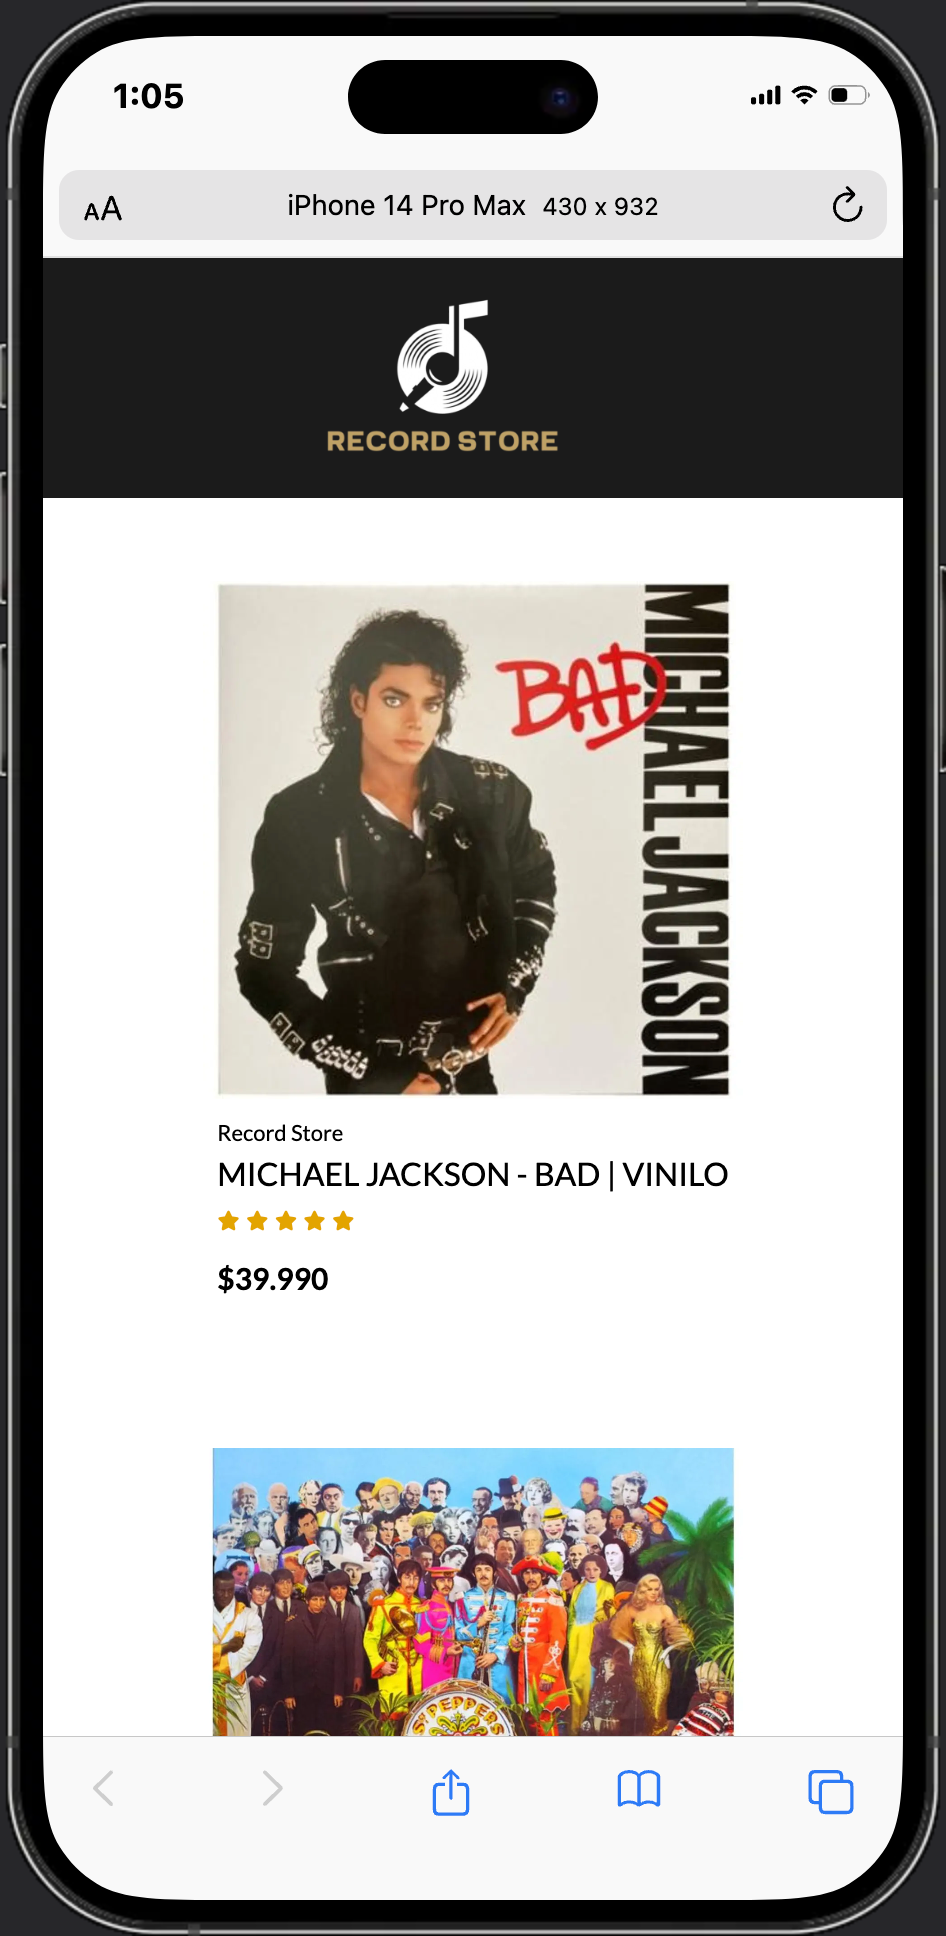
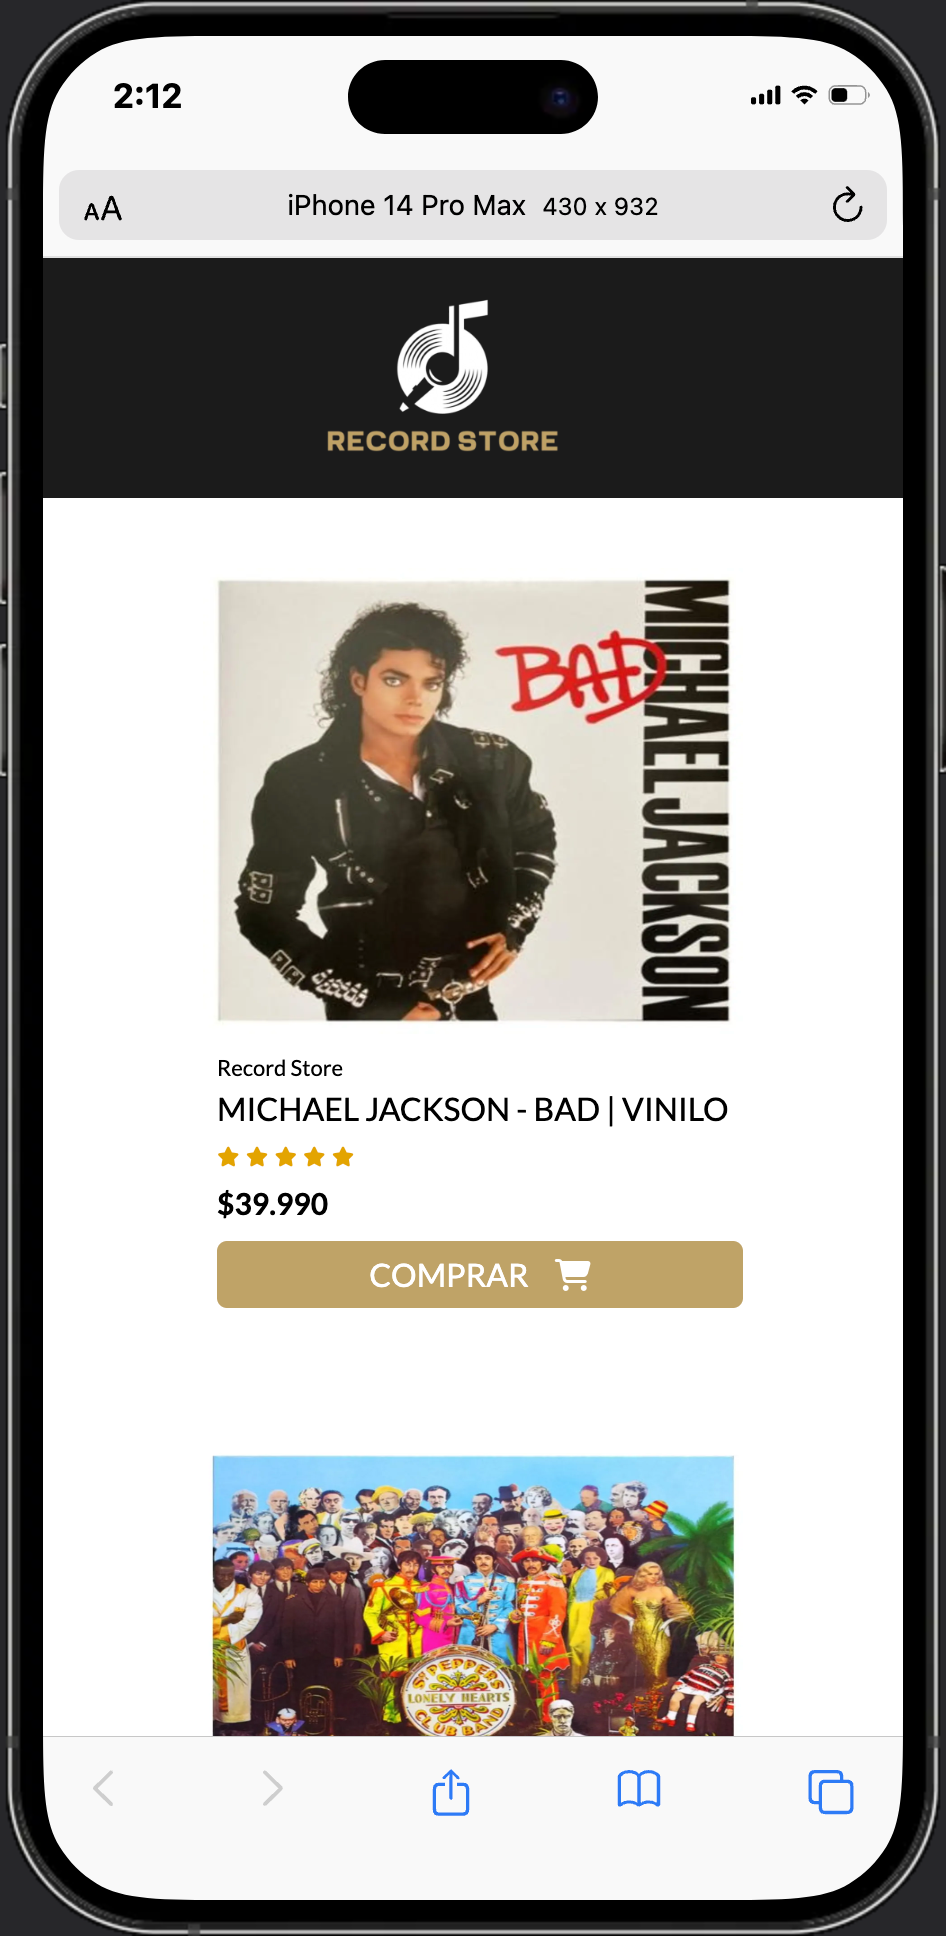
Add buy button

Changed region(s): [[0.2146, 0.2789, 0.797, 0.6818], [0.2146, 0.7438, 0.797, 0.8988], [0.1226, 0.031, 0.1839, 0.062]]

diff --git a/index.html b/index.html
@@ -74,6 +74,7 @@
                     <i class="fa-solid fa-star fa-2xs"></i>
                 </div>
                 <p>$39.990</p>
+                <a class="buy" href="#">Comprar <i class="fa-solid fa-cart-shopping"></i></a>
             </div>
         </article>
             
@@ -94,6 +95,7 @@
                     <i class="fa-solid fa-star fa-2xs"></i>
                 </div>
                 <p>$32.990</p>
+                <a class="buy" href="#">Comprar<i class="fa-solid fa-cart-shopping"></i> </a>
             </div>
         </article>
 
@@ -114,6 +116,7 @@
                     <i class="fa-solid fa-star fa-2xs"></i>
                 </div>
                 <p>$47.990</p>
+                <a class="buy" href="#">Comprar <i class="fa-solid fa-cart-shopping"></i></a>
             </div>
         </article>
         <article class="disc-item">
@@ -133,6 +136,7 @@
                     <i class="fa-solid fa-star fa-2xs"></i>
                 </div>
                 <p>$35.990</p>
+                <a class="buy" href="#">Comprar <i class="fa-solid fa-cart-shopping"></i></a>
             </div>
         </article>
 
@@ -153,6 +157,7 @@
                     <i class="fa-solid fa-star fa-2xs"></i>
                 </div>
                 <p>$34.990</p>
+                <a class="buy" href="#">Comprar <i class="fa-solid fa-cart-shopping"></i></a>
             </div>
         </article>
 
@@ -173,6 +178,7 @@
                     <i class="fa-solid fa-star fa-2xs"></i>
                 </div>
                 <p>$47.990</p>
+                <a class="buy" href="#">Comprar <i class="fa-solid fa-cart-shopping"></i></a>
             </div>
         </article>
         

diff --git a/assets/css/style.css b/assets/css/style.css
@@ -154,8 +154,8 @@ body {
 
 /* PRODUCT ITEM */
 .disc-item {
-    width: 30rem;
-    height: 40rem;
+    width: 35rem;
+    height: 47rem;
     border-radius: 1rem; 
     transition: box-shadow 0.3s ease-in-out, transform 0.3s ease-in-out;
     padding: 1.5rem;
@@ -206,7 +206,7 @@ body {
     font-family: "Lato";
     padding-top: 1rem;
     margin-left: 0.7rem;
-    
+    min-height: auto;    
 }
 
 .info-disc h5 {
@@ -227,9 +227,29 @@ body {
 }
 
 .info-disc p {
-    margin-top: 1rem;
+    margin-top: .5rem;
+    margin-bottom: 1rem;
     font-size: 1.5rem;
     font-weight: 600;
+}
+
+.buy {
+    background-color: #c0a367;
+    text-decoration: none;
+    color: #fff;
+    display: block;
+    padding: .7rem;
+    border-radius: .5rem;
+    text-align: center;
+    text-transform: uppercase;
+}
+
+.fa-cart-shopping {
+    margin-left: 1rem;
+}
+
+.buy:hover {
+    background-color: #d6b87c;
 }
 
 .footer {

diff --git a/README.md b/README.md
@@ -15,5 +15,5 @@
 
 <p>
     <img src="/assets/img/iPhone-14-Pro-Max-473x968 2.png" alt="iPhone 14 Pro Max" width="200" height="409"/>
-    <img src="/assets/img/Macbook-Air-2011x1165 5.png" alt="Macbook Air" width="500"/>
+    <img src="/assets/img/Macbook-Air-2011x1165 3.png" alt="Macbook Air" width="500"/>
 </p>
